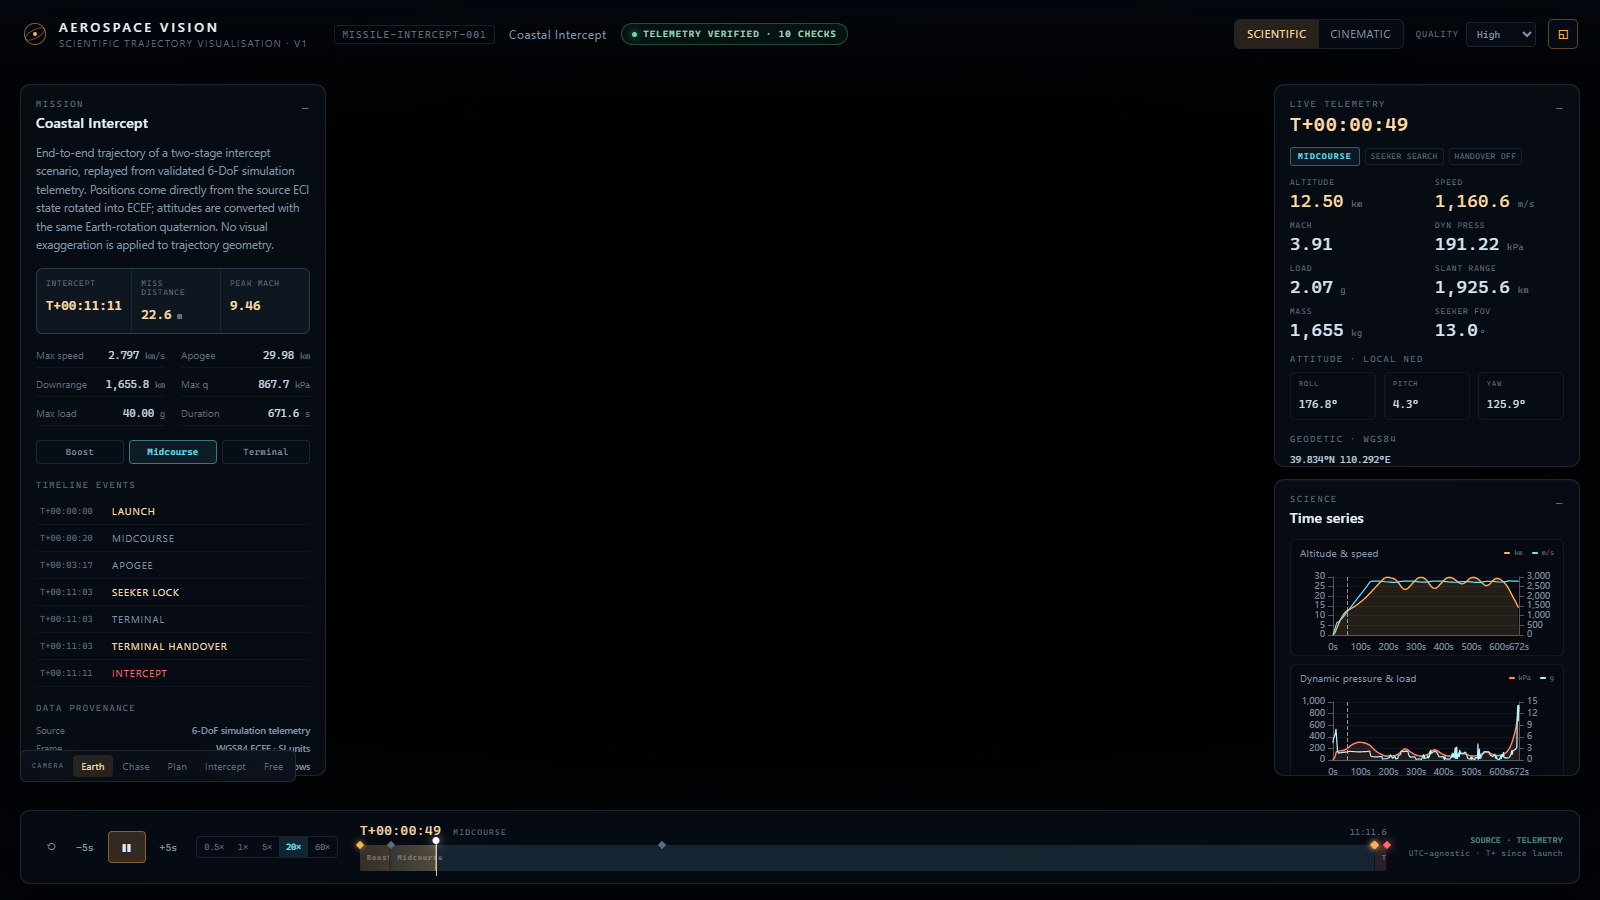
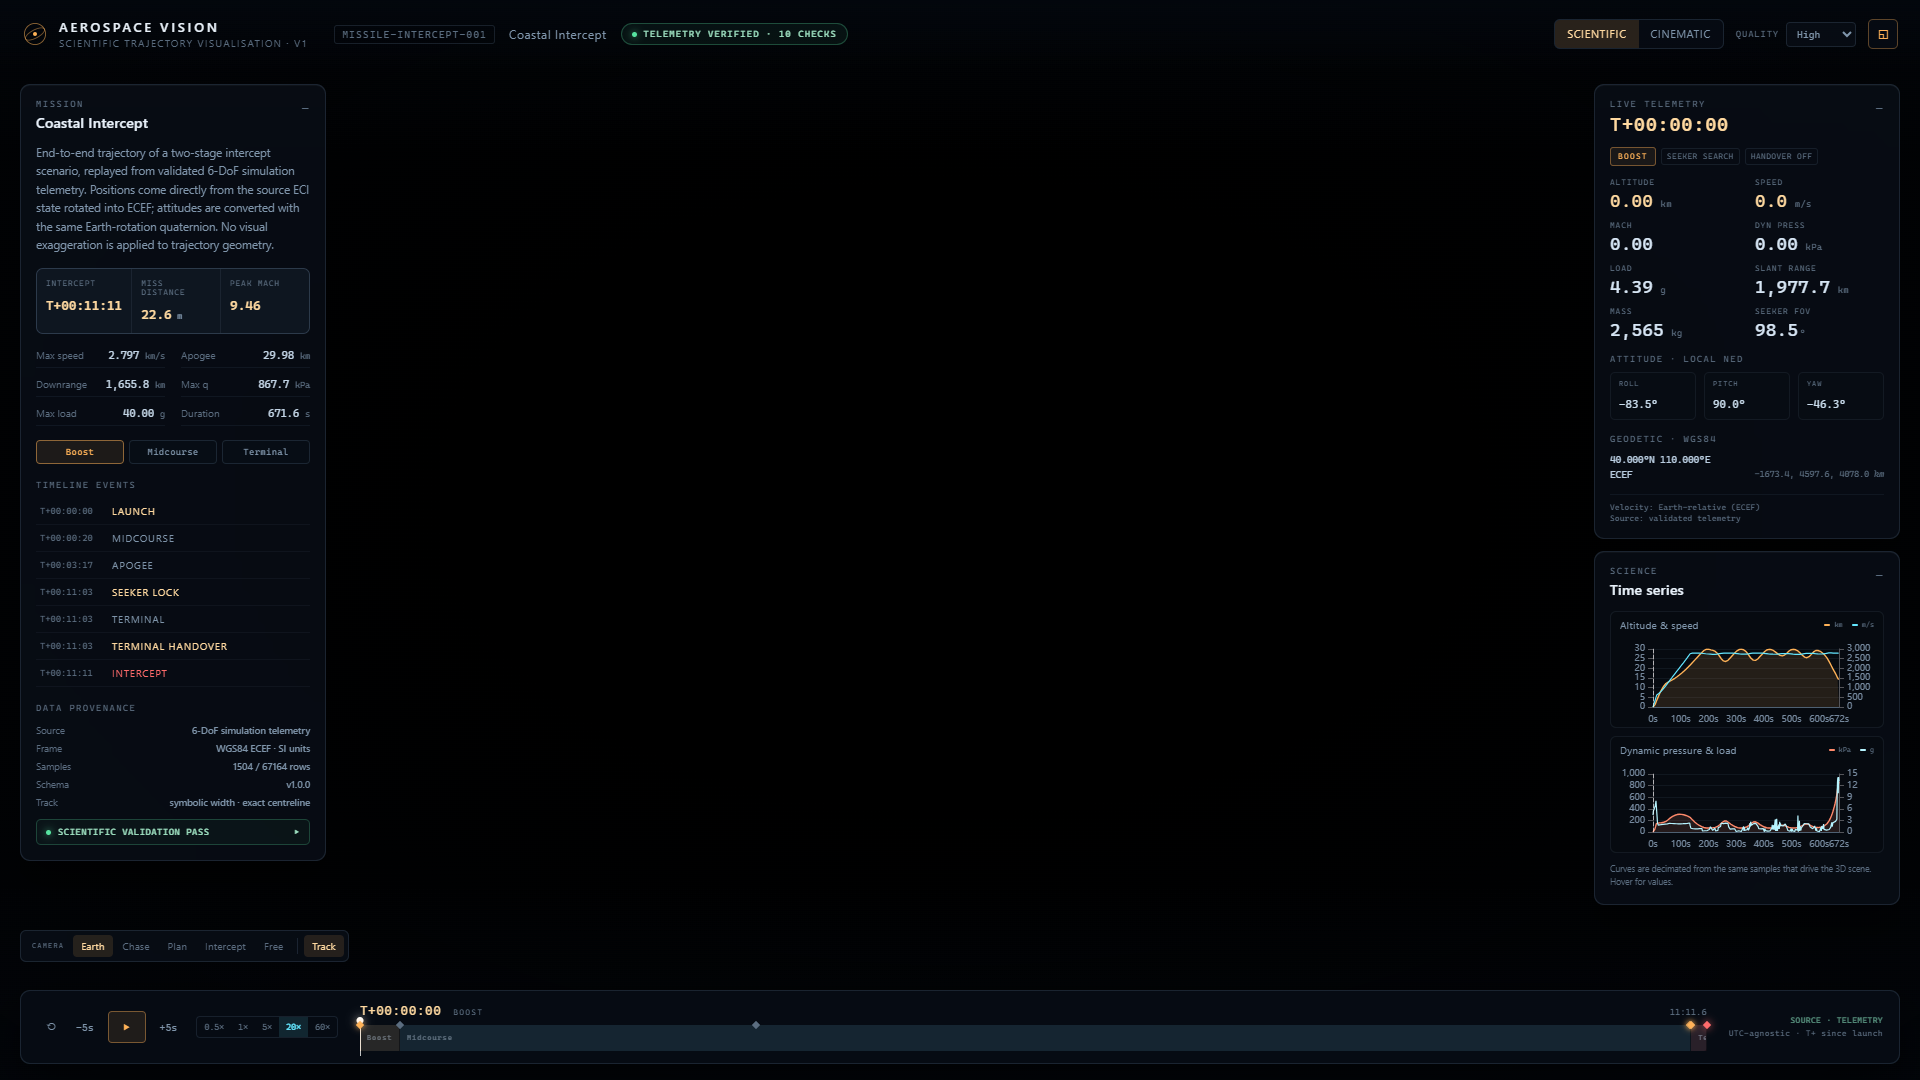
Update acceptance evidence for 8K, bloom and public re-verification [skip ci]

diff --git a/aerospace-vision-web/docs/ACCEPTANCE.md b/aerospace-vision-web/docs/ACCEPTANCE.md
@@ -105,11 +105,13 @@ Screenshots produced during the run are in `test-results/visual/`; the curated
 
 ### CI deployment run
 
-Commit `8fe3e3d` — workflow run
-[44744503544](https://github.com/PaoShou-China/missile-interception/actions/runs/44744503544):
-`build` and `deploy` both **success**. The CI browser uses SwiftShader: five
-scene/interaction tests passed, and the FPS test recorded **5.9 FPS** as a
-software-rendering annotation rather than a hardware result.
+Commit `1d4f622` — workflow run
+[44753808320](https://github.com/PaoShou-China/missile-interception/actions/runs/44753808320):
+`build` and `deploy` **success**. The deployment gate runs Chromium and WebKit
+(full functional suite, including screenshots). Firefox is exercised in CI as an
+informational step with software Mesa GL and does not block deployment; the same
+Firefox suite passed locally on Windows (5/5). Chromium CI uses SwiftShader and
+records ~2.5 FPS as a software annotation rather than a hardware verdict.
 
 ### Public URL verification (G5)
 
@@ -117,8 +119,11 @@ software-rendering annotation rather than a hardware result.
 URL:    https://paoshou-china.github.io/missile-interception/
 title:  Aerospace Vision Web · Scientific Trajectory Visualisation
 status: TELEMETRY VERIFIED · 10 CHECKS
-canvas: 1600 × 900
-clock:  T+00:00:49, altitude 0.00 → 12.50 km after pressing play
+canvas: 1920 × 1080
+assets: earth_day_8k.jpg 200 · earth_clouds_4k.jpg 200
+ui:     Track emphasis toggle present
+clock:  T+00:00:42, altitude 11.45 km after pressing play
+load:   10.3 s first visit (8K + 4K textures over the Pages CDN)
 legacy: https://paoshou-china.github.io/missile-interception/legacy/ → 200,
         original report title
 errors: none (console, page errors, HTTP >= 400)
@@ -148,10 +153,12 @@ High quality streams 8K/4K textures (~7.2 MB); Medium/Low use the 2K/1K pair
 
 1. **Mobile and high-DPI devices** are not part of the current verified matrix;
    the High tier streams 8K textures (≈7 MB) and automatically falls back to 2K
-   when the GPU reports `maxTextureSize < 8192`.
+   when the GPU reports `maxTextureSize < 8192`. First-load time on the Pages
+   CDN was 10.3 s for the 8K assets.
 2. **Firefox/WebKit performance** was verified functionally (all tests passed)
    but not profiled for frame rate; only Chromium passed the 60 FPS hardware
-   gate. CI has no GPU and records SwiftShader (~5.9 FPS) as an annotation.
+   gate. CI Firefox runs without a GPU and is informational; local Windows
+   Firefox passed the functional suite.
 3. **Earth LOD.** The 8K map is a single equirectangular texture, not tiled LOD;
    close chase passes can still look soft when the camera is metres above the
    surface. A tiled/streamed Earth is the next visual upgrade.
@@ -164,8 +171,9 @@ High quality streams 8K/4K textures (~7.2 MB); Medium/Low use the 2K/1K pair
 6. **Target attitude** is derived from its ECEF velocity (source telemetry has
    no target attitude). It affects orientation only and is documented in the
    UI's provenance section.
-7. **CI deployment** was verified for the previous commit chain; re-verify after
-   any future deployment changes.
+7. **CI Firefox environment.** The informational Firefox job needs software
+   Mesa; its result may vary by runner image and is not part of the deployment
+   gate. Local Firefox 5/5 is the authoritative functional evidence.
 
 ## Next highest-priority work
 
